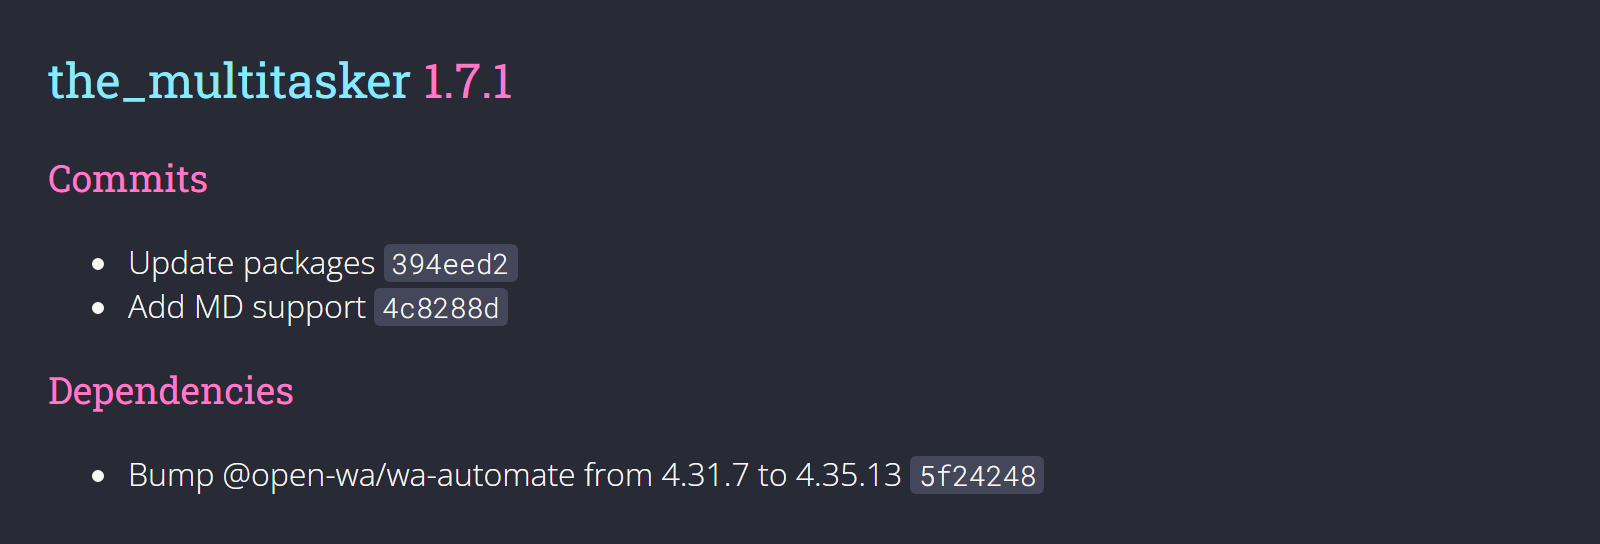
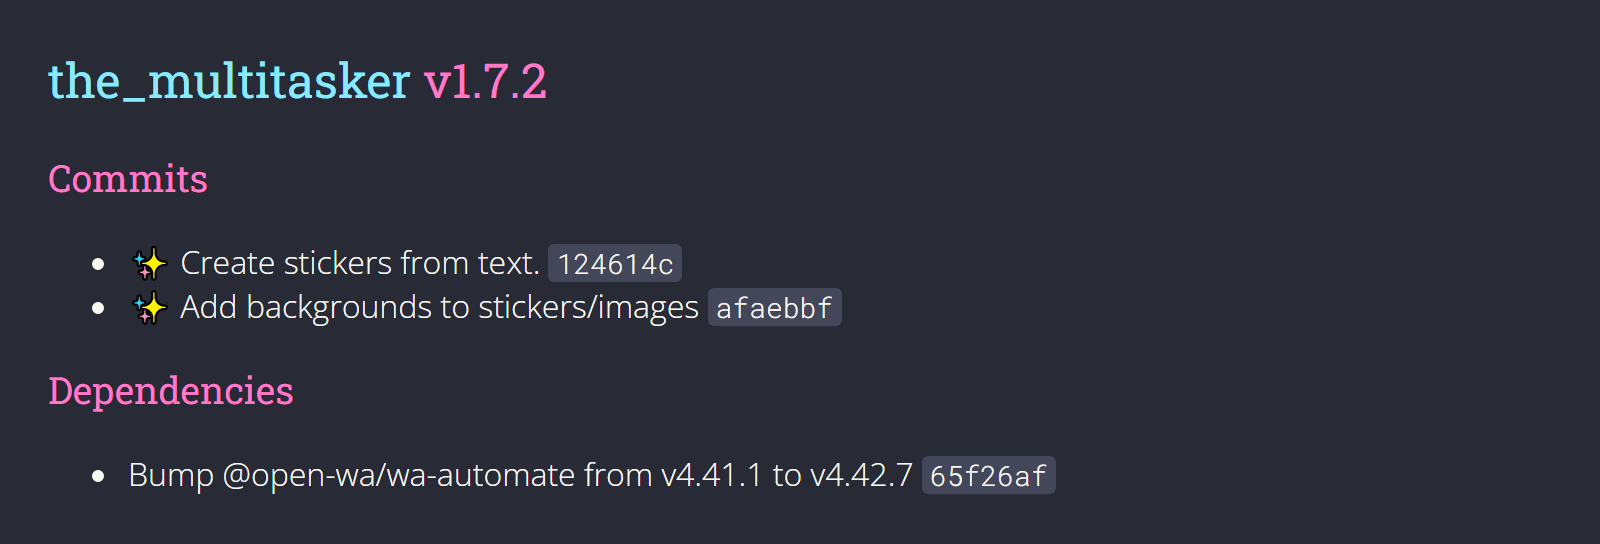
Release 1.7.2

Changed region(s): [[0.0625, 0.4375, 0.5312, 0.625], [0.4062, 0.8438, 0.6875, 0.9062], [0.25, 0.0938, 0.3438, 0.1875]]

diff --git a/CHANGELOG.md b/CHANGELOG.md
@@ -7,7 +7,21 @@ and this project adheres to [Semantic Versioning](https://semver.org/spec/v2.0.0
 
 Generated by [`auto-changelog`](https://github.com/CookPete/auto-changelog).
 
-## [1.7.1](https://github.com/eyalmichon/TheMultitasker/compare/1.7.0...1.7.1)
+## [v1.7.2](https://github.com/eyalmichon/TheMultitasker/compare/v1.7.1...v1.7.2)
+
+
+
+
+### Commits
+
+- ✨ Create stickers from text. [`124614c`](https://github.com/eyalmichon/TheMultitasker/commit/124614c6d2cc65702c2d1859f670bce37c16d6f3)
+- ✨ Add backgrounds to stickers/images [`afaebbf`](https://github.com/eyalmichon/TheMultitasker/commit/afaebbf60b0412b72fc225ccc75c5c77c6536d95)
+
+### Dependencies
+
+- Bump @open-wa/wa-automate from v4.41.1 to v4.42.7 [`65f26af`](https://github.com/eyalmichon/TheMultitasker/commit/65f26af8aff4d3276cf5c514a33318ccfa0b08b9)
+
+## [v1.7.1](https://github.com/eyalmichon/TheMultitasker/compare/1.7.0...v1.7.1) - 2022-06-18
 
 
 
